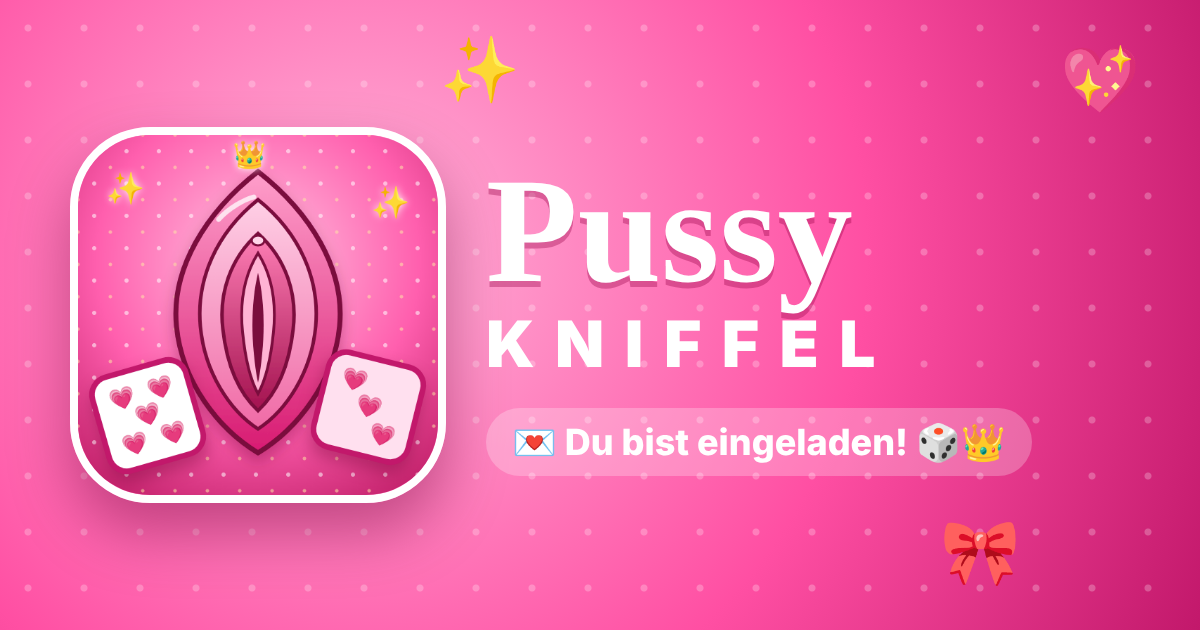
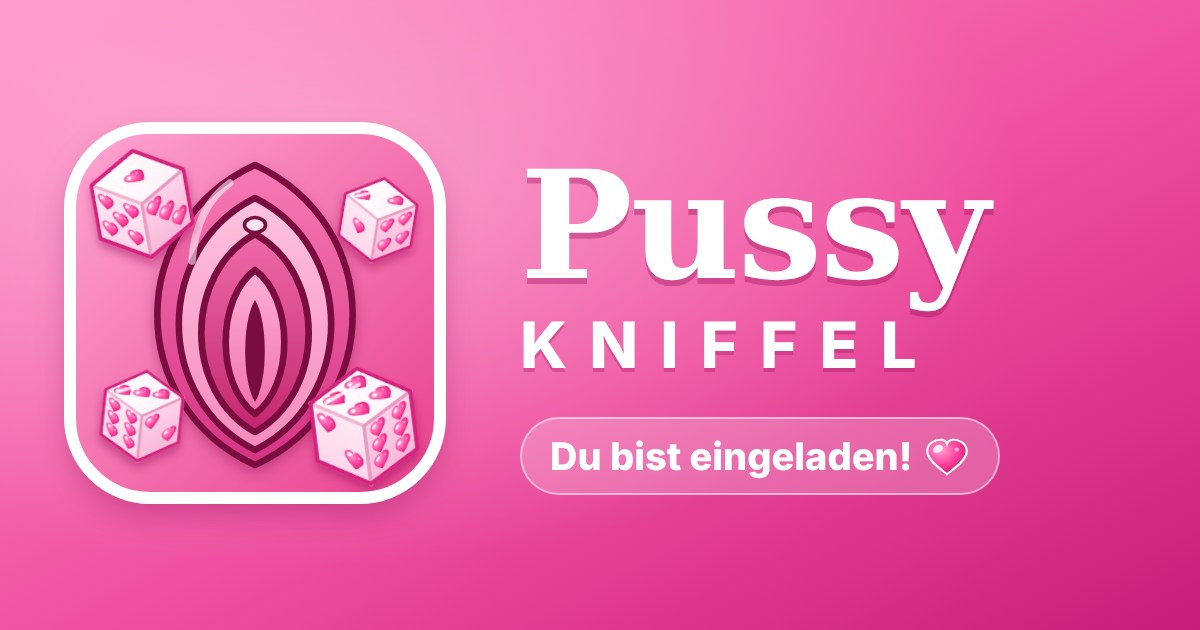
Add files via upload

diff --git a/index.html b/index.html
@@ -6,11 +6,11 @@
 <meta name="theme-color" content="#ff4fa3">
 <link rel="preconnect" href="https://fonts.googleapis.com"><link rel="preconnect" href="https://fonts.gstatic.com" crossorigin>
 <link href="https://fonts.googleapis.com/css2?family=Pacifico&family=Quicksand:wght@500;600;700&display=swap" rel="stylesheet">
-<meta name="description" content="Du bist eingeladen! Zauberkarten · Live-Punkte · Glitzer 💖">
+<meta name="description" content="Du bist eingeladen! 🍒 Zauberkarten · Live-Punkte · Pussys 🍑💦">
 <meta property="og:type" content="website">
 <meta property="og:title" content="PussyKniffel 💖👑">
-<meta property="og:description" content="Du bist eingeladen! Zauberkarten · Live-Punkte · Glitzer ✨">
-<meta property="og:image" content="https://urpussey.github.io/vorschau.png"><meta property="og:url" content="https://urpussey.github.io/">
+<meta property="og:description" content="Du bist eingeladen! 🍒 Zauberkarten · Live-Punkte · Pussys 🍑💦">
+<meta property="og:image" content="https://urpussey.github.io/vorschau.png?v=4"><meta property="og:url" content="https://urpussey.github.io/">
 <meta property="og:image:width" content="1200"><meta property="og:image:height" content="630">
 <meta name="twitter:card" content="summary_large_image">
 <link rel="manifest" href="manifest.webmanifest">
